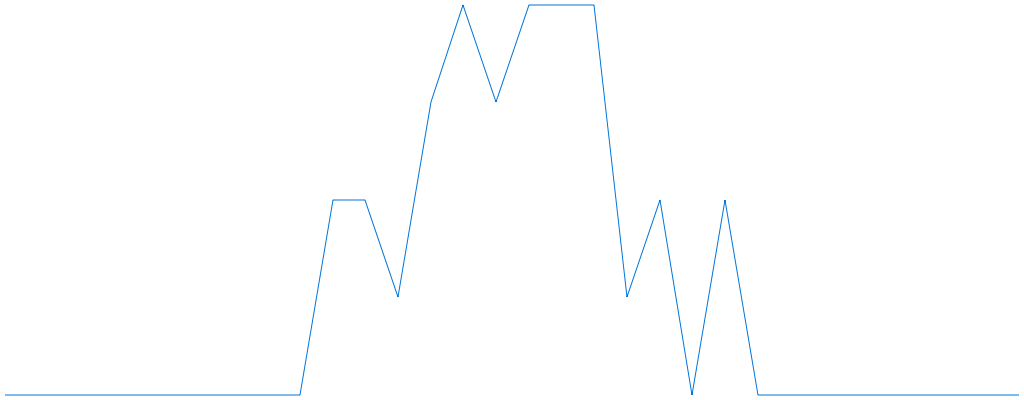
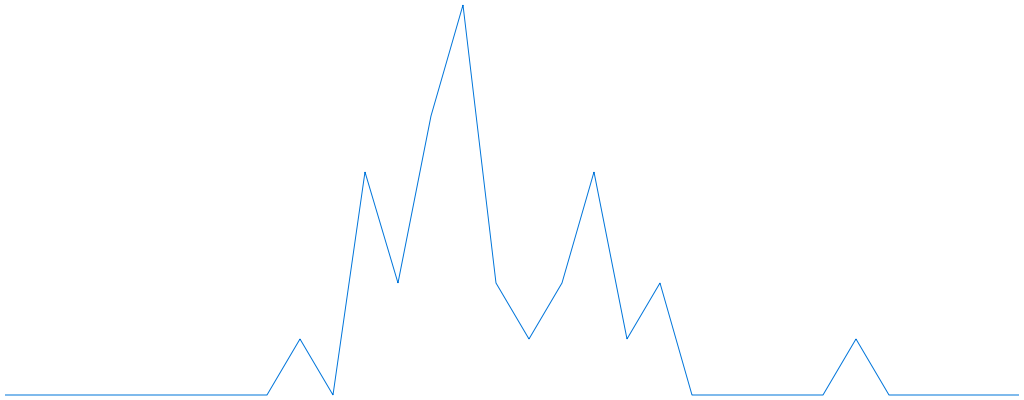
adds possibility to run more than one game

diff --git a/cmd/topcards.go b/cmd/topcards.go
@@ -11,125 +11,143 @@ import (
 )
 
 var numberOfCards int
+var numberOfGames int
+var playedGames = 0
+var playerAWins, playerBWins = 0, 0
+var plotCardGraph bool
 
 func main() {
-	flag.IntVar(&numberOfCards, "n", 32, "Number of Cards to play witth")
+	flag.IntVar(&numberOfCards, "n", 32, "Number of Cards to play with")
+	flag.IntVar(&numberOfGames, "g", 1, "Number of games to play")
+	flag.BoolVar(&plotCardGraph, "plotCardGraph", false, "Plot Card Graph")
 	flag.Parse()
-	fmt.Printf("Playing with %d Cards\n", numberOfCards)
+	fmt.Printf("Playing %d games with %d cards\n", numberOfGames, numberOfCards)
 
 	var staple []model.Card
 
-	YValues := make([]int, numberOfCards, numberOfCards)
+	for playedGames < numberOfGames {
+		playedGames++
+		staple = nil
 
-	for i := 0; i < numberOfCards; i++ {
+		YValues := make([]int, numberOfCards, numberOfCards)
 
-		sample := TruncatedNormal(float64(numberOfCards/2), float64(numberOfCards/10), 0, float64(numberOfCards))
-		fmt.Println(sample)
+		for i := 0; i < numberOfCards; i++ {
 
-		YValues[int(sample)] = YValues[int(sample)] + 1
-		fmt.Println(sample, YValues[int(sample)])
-		staple = append(staple, model.Card{Value: sample, Id: i})
+			sample := TruncatedNormal(float64(numberOfCards/2), float64(numberOfCards/10), 0, float64(numberOfCards))
+			// fmt.Println(sample)
 
-	}
-	var x, y []float64
-	for key, value := range YValues {
-		x = append(x, float64(key))
-		y = append(y, float64(value))
-		fmt.Printf("%d,%d\n", key, value)
-	}
+			YValues[int(sample)] = YValues[int(sample)] + 1
+			// fmt.Println(sample, YValues[int(sample)])
+			staple = append(staple, model.Card{Value: sample, Id: i})
 
-	graph := chart.Chart{
-		Series: []chart.Series{
-			chart.ContinuousSeries{
-				XValues: x,
-				YValues: y,
-			},
-		},
-	}
-
-	f, _ := os.Create("output.png")
-	defer f.Close()
-	graph.Render(chart.PNG, f)
-
-	// shuflle
-	rand.Shuffle(len(staple), func(i, j int) { staple[i], staple[j] = staple[j], staple[i] })
-	var playerA, playerB []model.Card
-
-	// give to each player
-	for i := 0; i < len(staple); i++ {
-		if i%2 == 0 {
-			playerA = append(playerA, staple[i])
-		} else {
-			playerB = append(playerB, staple[i])
 		}
-	}
-
-	fmt.Println("Number of Cards A:", len(playerA))
-	fmt.Println("Number of Cards B:", len(playerB))
-
-	// start playing
-	// who starts
-	nextPlayer := rand.Intn(1)
-	otherPlayer := 0
-
-	var players [][]model.Card
-	players = append(players, playerA)
-	players = append(players, playerB)
-
-	var tieStaple []model.Card
-	var counter = 0
-
-	for len(players[0]) != 0 && len(players[1]) != 0 {
-		counter++
-		fmt.Println("Run: ", counter)
-		fmt.Printf("Staple A: %d, Staple B:%d\n", len(players[0]), len(players[1]))
-		if nextPlayer == 0 {
-			otherPlayer = 1
-		} else if nextPlayer == 1 {
-			otherPlayer = 0
-		}
-
-		cardA := players[nextPlayer][0]
-		cardB := players[otherPlayer][0]
-
-		stapleA := players[nextPlayer][1:len(players[nextPlayer])]
-		stapleB := players[otherPlayer][1:len(players[otherPlayer])]
-		fmt.Printf("Value A: %g, Value B:%g\n", cardA.Value, cardB.Value)
-		if cardA.Value > cardB.Value {
-			fmt.Println("Player Nextplayer")
-			players[nextPlayer] = append(stapleA, cardA, cardB)
-			players[otherPlayer] = stapleB
-			if len(tieStaple) > 0 {
-				// add all tie cards to otherPlayer
-				players[nextPlayer] = append(stapleA, tieStaple...)
-				tieStaple = nil
-
+		if plotCardGraph {
+			var x, y []float64
+			for key, value := range YValues {
+				x = append(x, float64(key))
+				y = append(y, float64(value))
+				// fmt.Printf("%d,%d\n", key, value)
 			}
 
-		} else if cardB.Value > cardA.Value {
-			fmt.Println("Player otherplayer")
-			players[otherPlayer] = append(stapleB, cardA, cardB)
-			players[nextPlayer] = stapleA
-			if len(tieStaple) > 0 {
-				// add all tie cards to otherPlayer
-				players[otherPlayer] = append(stapleB, tieStaple...)
-				tieStaple = nil
+			graph := chart.Chart{
+				Series: []chart.Series{
+					chart.ContinuousSeries{
+						XValues: x,
+						YValues: y,
+					},
+				},
 			}
 
-			oldPlayer := nextPlayer
-			nextPlayer = otherPlayer
-			otherPlayer = oldPlayer
-
-		} else {
-			tieStaple = append(tieStaple, cardA, cardB)
-			players[nextPlayer] = stapleA
-			players[otherPlayer] = stapleB
-			fmt.Println("Tie Staple lenght", len(tieStaple))
+			f, _ := os.Create("output.png")
+			defer f.Close()
+			graph.Render(chart.PNG, f)
 		}
-		//time.Sleep(1 * time.Second)
+		// shuflle
+		rand.Shuffle(len(staple), func(i, j int) { staple[i], staple[j] = staple[j], staple[i] })
+		var playerA, playerB []model.Card
+
+		// give to each player
+		for i := 0; i < len(staple); i++ {
+			if i%2 == 0 {
+				playerA = append(playerA, staple[i])
+			} else {
+				playerB = append(playerB, staple[i])
+			}
+		}
+
+		// fmt.Println("Number of Cards A:", len(playerA))
+		// fmt.Println("Number of Cards B:", len(playerB))
+
+		// start playing
+		// who starts
+		nextPlayer := rand.Intn(1)
+		otherPlayer := 0
+
+		var players [][]model.Card
+		players = append(players, playerA)
+		players = append(players, playerB)
+
+		var tieStaple []model.Card
+		var counter = 0
+
+		for len(players[0]) != 0 && len(players[1]) != 0 {
+			counter++
+			// fmt.Println("Run: ", counter)
+			// fmt.Printf("Staple A: %d, Staple B:%d\n", len(players[0]), len(players[1]))
+			if nextPlayer == 0 {
+				otherPlayer = 1
+			} else if nextPlayer == 1 {
+				otherPlayer = 0
+			}
+
+			cardA := players[nextPlayer][0]
+			cardB := players[otherPlayer][0]
+
+			stapleA := players[nextPlayer][1:len(players[nextPlayer])]
+			stapleB := players[otherPlayer][1:len(players[otherPlayer])]
+			// fmt.Printf("Value A: %g, Value B:%g\n", cardA.Value, cardB.Value)
+			if cardA.Value > cardB.Value {
+				// fmt.Println("Player Nextplayer")
+				players[nextPlayer] = append(stapleA, cardA, cardB)
+				players[otherPlayer] = stapleB
+				if len(tieStaple) > 0 {
+					// add all tie cards to otherPlayer
+					players[nextPlayer] = append(stapleA, tieStaple...)
+					tieStaple = nil
+
+				}
+
+			} else if cardB.Value > cardA.Value {
+				// fmt.Println("Player otherplayer")
+				players[otherPlayer] = append(stapleB, cardA, cardB)
+				players[nextPlayer] = stapleA
+				if len(tieStaple) > 0 {
+					// add all tie cards to otherPlayer
+					players[otherPlayer] = append(stapleB, tieStaple...)
+					tieStaple = nil
+				}
+
+				oldPlayer := nextPlayer
+				nextPlayer = otherPlayer
+				otherPlayer = oldPlayer
+
+			} else {
+				tieStaple = append(tieStaple, cardA, cardB)
+				players[nextPlayer] = stapleA
+				players[otherPlayer] = stapleB
+				fmt.Println("Tie Staple lenght", len(tieStaple))
+			}
+			//time.Sleep(1 * time.Second)
+		}
+		if len(players[0]) == 0 {
+			playerAWins++
+		} else if len(players[1]) == 0 {
+			playerBWins++
+		}
+		fmt.Println("Number of total runs:", counter)
+		// use while player 1 oder 2  loop
 	}
-	fmt.Println("Number of total runs:", counter)
-	// use while player 1 oder 2  loop
+	fmt.Printf("Player A wins: %d Player B wins: %d \n", playerAWins, playerBWins)
 
 }
 
